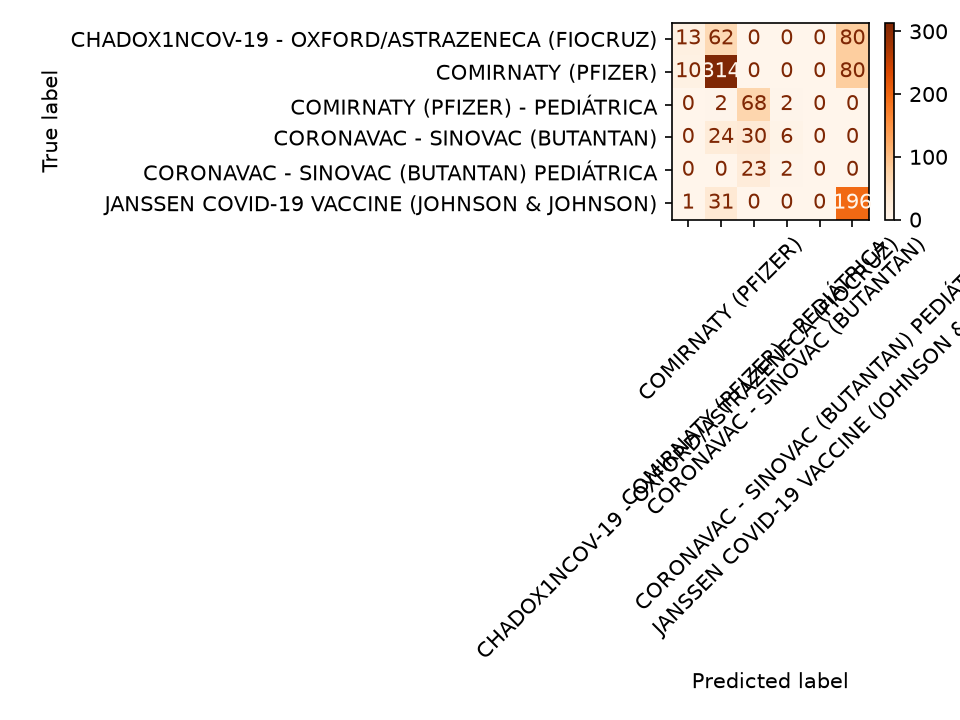
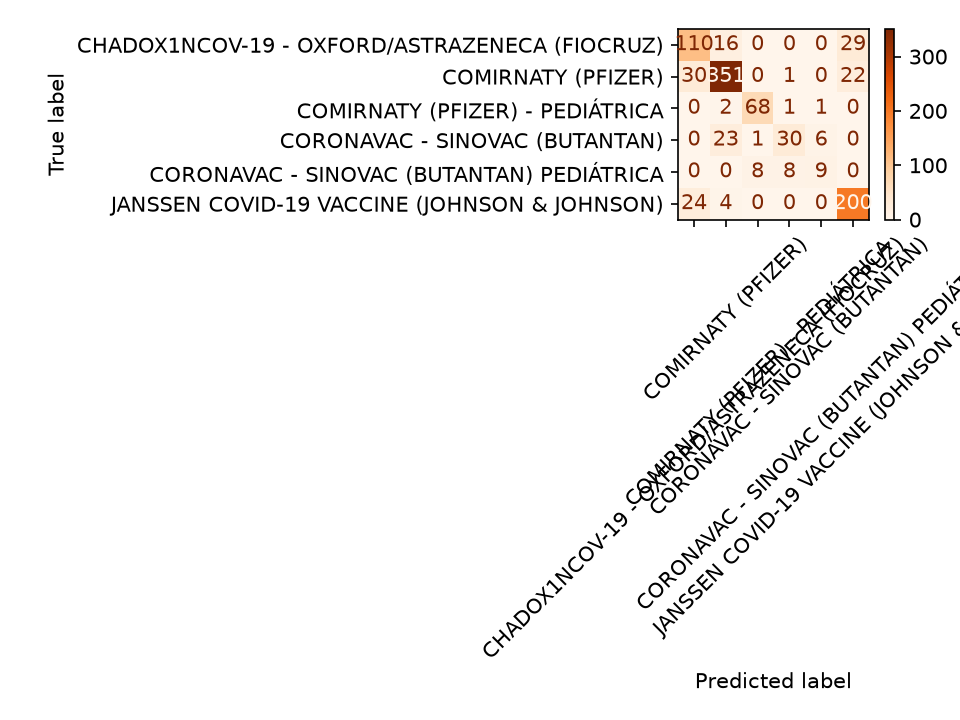
Classificador: dia_ano e busca de hiperparâmetros com GridSearchCV

diff --git a/src/ml_model.py b/src/ml_model.py
@@ -2,16 +2,20 @@ import matplotlib.pyplot as plt
 import pandas as pd
 from sklearn.dummy import DummyClassifier
 from sklearn.metrics import ConfusionMatrixDisplay, accuracy_score, classification_report
-from sklearn.model_selection import train_test_split
+from sklearn.model_selection import GridSearchCV, cross_val_score, train_test_split
 from sklearn.tree import DecisionTreeClassifier, export_text
-
 
 class Classificador:
     """Prevê qual vacina a pessoa recebeu a partir do perfil (dados da SILVER)."""
 
     ALVO = "vacina"
-    NUMERICAS = ["idade", "dose", "ano", "mes"]
+    NUMERICAS = ["idade", "dose", "dia_ano"]
     CATEGORICAS = ["sexo", "raca_cor", "distrito_sanitario"]
+    GRADE = {
+        "max_depth": [4, 6, 8, 10, 12, 15, None],
+        "min_samples_leaf": [1, 3, 5, 10, 20],
+        "criterion": ["gini", "entropy"],
+    }
 
     def __init__(self, profundidade=4, min_registros=50):
         self.min_registros = min_registros
@@ -20,8 +24,7 @@ class Classificador:
     def preparar(self, df):
         df = df.copy()
         data = pd.to_datetime(df["data_vacinacao"])
-        df["ano"] = data.dt.year
-        df["mes"] = data.dt.month
+        df["dia_ano"] = data.dt.dayofyear
         df = df.dropna(subset=self.NUMERICAS + [self.ALVO])
 
         # remove vacinas raras (poucos exemplos para aprender)
@@ -42,6 +45,25 @@ class Classificador:
         chute = DummyClassifier(strategy="most_frequent").fit(X_treino, y_treino)
         acuracia = accuracy_score(y_teste, chute.predict(X_teste))
         print(f"[model] linha de base: {acuracia:.1%}")
+
+    def validar(self, X_treino, y_treino, folds=5):
+        # mede modelo treino, o teste fica guardado pro final
+        notas = cross_val_score(self.modelo, X_treino, y_treino, cv=folds, scoring="accuracy")
+        print(f"[model] acuracia na validação: {notas.mean():.1%} (+- {notas.std():.1%})")
+        return notas.mean()
+
+    def buscar_parametros(self, X_treino, y_treino, folds=5):
+            # testa todas as combinações da GRADE com validação cruzada, só no treino
+            busca = GridSearchCV(self.modelo, self.GRADE, cv=folds, scoring="accuracy",
+                                return_train_score=True)
+            busca.fit(X_treino, y_treino)
+            self.modelo = busca.best_estimator_
+
+            melhor = busca.best_index_
+            treino = busca.cv_results_["mean_train_score"][melhor]
+            print(f"[model] melhores parâmetros: {busca.best_params_}")
+            print(f"[model] acurácia no treino: {treino:.1%} | na validação: {busca.best_score_:.1%}")
+            return busca.best_params_
 
     def treinar(self, X_treino, y_treino):
         self.modelo.fit(X_treino, y_treino)

diff --git a/train.py b/train.py
@@ -10,6 +10,7 @@ X, y = classificador.preparar(df)
 X_treino, X_teste, y_treino, y_teste = classificador.dividir(X, y)
 
 classificador.linha_de_base(X_treino, y_treino, X_teste, y_teste)
+classificador.buscar_parametros(X_treino, y_treino)
 classificador.treinar(X_treino, y_treino)
 classificador.avaliar(X_teste, y_teste)
 classificador.explicar()
